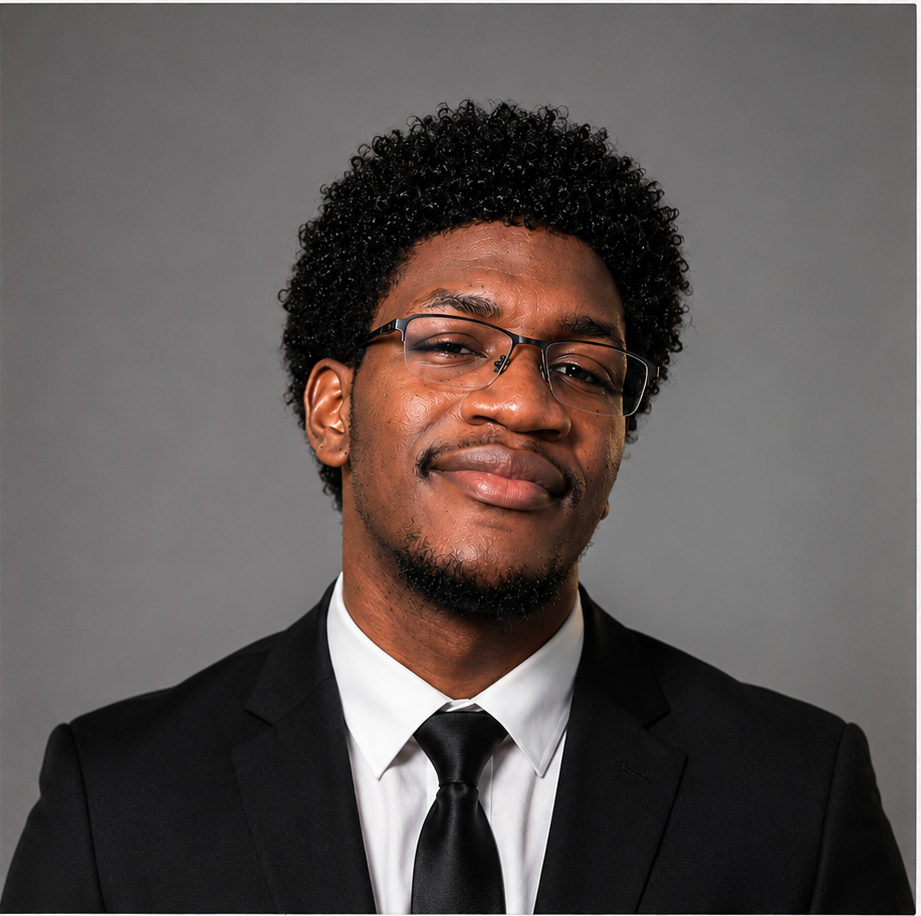
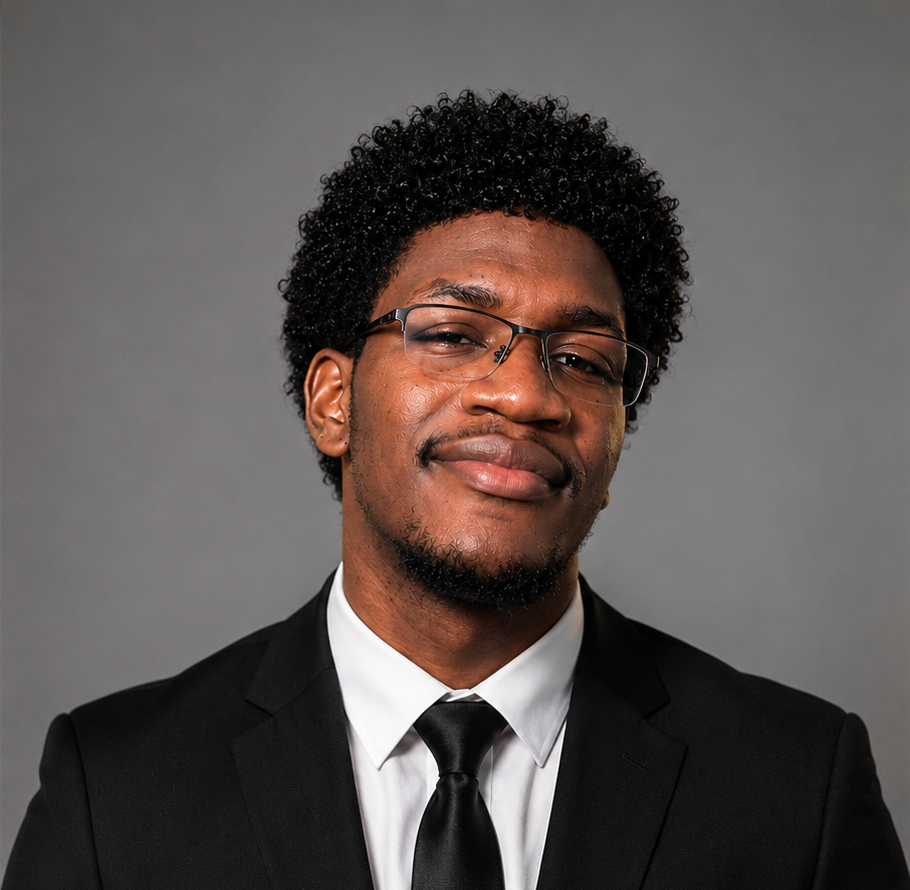
fixed animations

diff --git a/src/components/sections/About.tsx b/src/components/sections/About.tsx
@@ -1,11 +1,14 @@
 "use client";
 
-import { motion } from "framer-motion";
+import { useState } from "react";
+import { motion, AnimatePresence } from "framer-motion";
 import Image from "next/image";
 import { siteConfig, techPills } from "@/lib/site";
 import { SectionHeading } from "@/components/ui/SectionHeading";
 
 export function About() {
+  const [profileImg, setProfileImg] = useState<1 | 2>(1);
+
   return (
     <section id="about" className="px-6 py-24 lg:px-12" aria-labelledby="about-heading">
       <SectionHeading number="01" title="About Me" />
@@ -39,14 +42,44 @@ export function About() {
         >
           <div className="absolute -inset-3 rotate-3 rounded-lg border-2 border-[#64ffda]/40" aria-hidden />
           <motion.div className="absolute -inset-3 -rotate-2 rounded-lg border border-white/10" aria-hidden />
-          <div className="relative aspect-square overflow-hidden rounded-lg border border-white/10 bg-navy-light">
-            <Image
-              src="/portfolioprofile1.png"
-              alt="Divine Chibueze Nnaji"
-              fill
-              className="object-cover"
-              sizes="(max-width: 768px) 100vw, 384px"
-            />
+          
+          <div 
+            onClick={() => setProfileImg(prev => prev === 1 ? 2 : 1)}
+            className="relative aspect-square overflow-hidden rounded-lg border border-white/10 bg-navy-light cursor-pointer group shadow-xl"
+            title="Click to toggle profile picture"
+          >
+            <AnimatePresence mode="wait">
+              <motion.div
+                key={profileImg}
+                initial={{ opacity: 0, scale: 0.95 }}
+                animate={{ opacity: 1, scale: 1 }}
+                exit={{ opacity: 0, scale: 0.95 }}
+                transition={{ duration: 0.25 }}
+                className="relative w-full h-full"
+              >
+                <Image
+                  src={profileImg === 1 ? "/portfolioprofile1.png" : "/portfolioprofile2.jpg"}
+                  alt="Divine Chibueze Nnaji"
+                  fill
+                  className="object-cover transition-transform duration-500 group-hover:scale-103"
+                  sizes="(max-width: 768px) 100vw, 384px"
+                  priority
+                />
+              </motion.div>
+            </AnimatePresence>
+
+            {/* Glowing Corner Badge controller */}
+            <button
+              type="button"
+              onClick={(e) => {
+                e.stopPropagation();
+                setProfileImg(prev => prev === 1 ? 2 : 1);
+              }}
+              className="absolute bottom-4 right-4 z-20 flex items-center gap-1.5 rounded-full border border-white/15 bg-black/75 px-3 py-1.5 font-mono text-[9px] text-[#ccd6f6] backdrop-blur-md transition-colors hover:border-[#64ffda] hover:text-[#64ffda] cursor-pointer shadow-lg select-none"
+            >
+              <span className="h-1.5 w-1.5 rounded-full bg-[#64ffda] animate-pulse" />
+              SWAP IMG
+            </button>
           </div>
         </motion.div>
       </div>

diff --git a/src/components/ui/BuiltInBrowser.tsx b/src/components/ui/BuiltInBrowser.tsx
@@ -163,10 +163,19 @@ export function BuiltInBrowser() {
 
                 <button
                   onClick={handleOpenExternal}
-                  className="flex h-8 px-3 items-center gap-1.5 rounded-lg border border-[#64ffda]/20 bg-[#64ffda]/5 font-mono text-[10px] sm:text-xs text-[#64ffda] hover:bg-[#64ffda]/15 transition"
+                  className="flex h-8 px-3 items-center gap-1.5 rounded-lg border border-[#64ffda]/20 bg-[#64ffda]/5 font-mono text-[10px] sm:text-xs text-[#64ffda] hover:bg-[#64ffda]/15 transition cursor-pointer"
                 >
                   <ExternalLink className="h-3.5 w-3.5" />
                   <span>LAUNCH</span>
+                </button>
+
+                <button
+                  onClick={handleClose}
+                  className="flex h-8 w-8 items-center justify-center rounded-lg border border-white/10 text-[#8892b0] hover:bg-white/5 hover:text-[#64ffda] hover:border-[#64ffda]/30 transition cursor-pointer"
+                  title="Close sandbox browser"
+                  aria-label="Close sandbox browser"
+                >
+                  <X className="h-4 w-4" />
                 </button>
               </div>
 

diff --git a/src/components/sections/Contact.tsx b/src/components/sections/Contact.tsx
@@ -1,7 +1,7 @@
 "use client";
 
 import { AnimatePresence, motion } from "framer-motion";
-import { Mail } from "lucide-react";
+import { Mail, X } from "lucide-react";
 import { SiGithub } from "react-icons/si";
 import { FaLinkedin } from "react-icons/fa";
 import { useState } from "react";
@@ -261,6 +261,16 @@ export function Contact() {
               aria-modal
               aria-label="Contact"
             >
+              {/* Tap target close trigger for mobile screens */}
+              <button
+                type="button"
+                onClick={() => setSheetOpen(false)}
+                className="absolute top-4 right-4 z-10 flex h-8 w-8 items-center justify-center rounded-full border border-white/10 bg-white/5 text-[#8892b0] hover:text-[#64ffda] hover:border-[#64ffda]/30 transition cursor-pointer"
+                aria-label="Close contact form"
+              >
+                <X className="h-4 w-4" />
+              </button>
+
               <div className="mx-auto mb-6 h-1.5 w-12 rounded-full bg-white/20" />
               <ContactContent />
             </motion.div>

diff --git a/src/components/sections/CaseStudyModal.tsx b/src/components/sections/CaseStudyModal.tsx
@@ -35,6 +35,7 @@ export function CaseStudyModal({ project, isOpen, onClose }: CaseStudyModalProps
       window.dispatchEvent(new CustomEvent("open-project-browser", {
         detail: { url: project.live, title: project.title }
       }));
+      onClose(); // Instantly close case study slide-over to reveal active sandbox!
     }
   };
 
